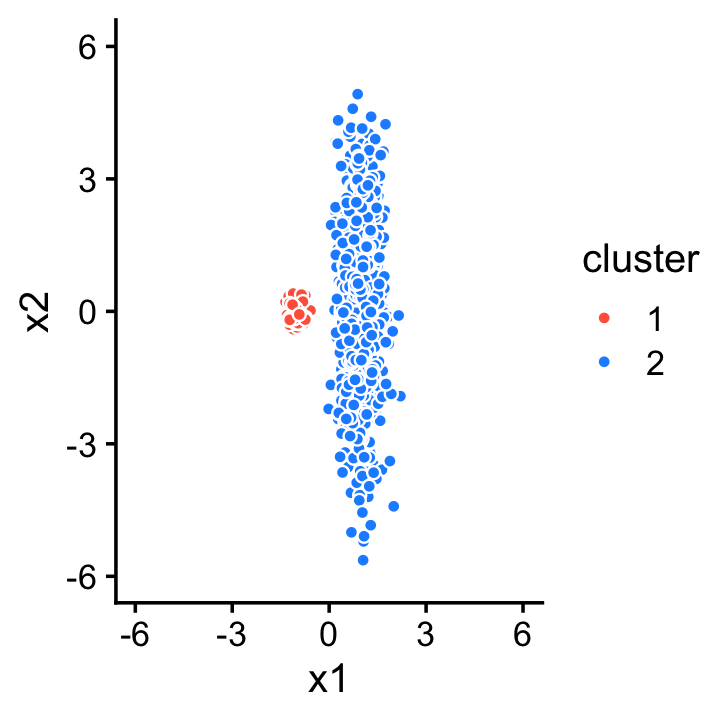
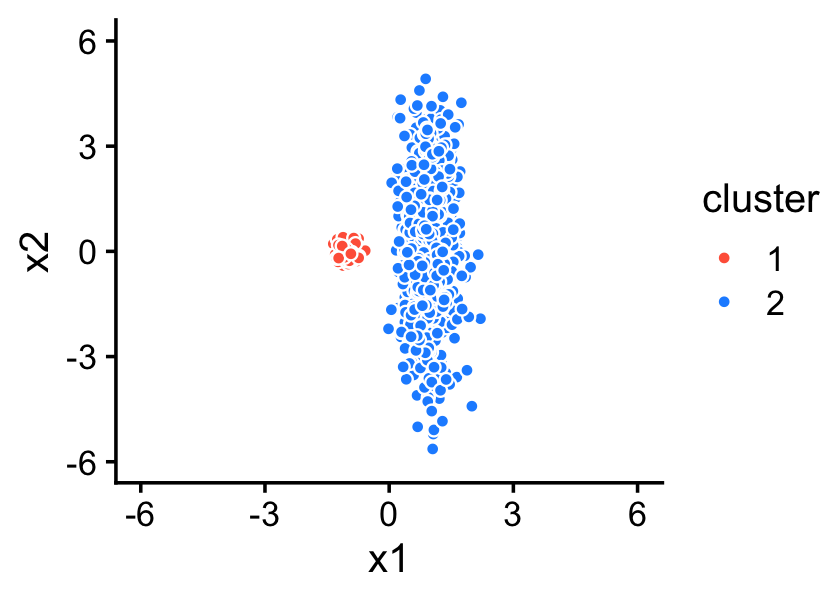
Added accompanying text to tsne_vs_factors analysis.

diff --git a/docs/tsne_vs_factors.html b/docs/tsne_vs_factors.html
@@ -420,22 +420,23 @@ This reproducible <a href="http://rmarkdown.rstudio.com">R Markdown</a> analysis
 <div class="panel panel-default">
 <div class="panel-heading">
 <p class="panel-title">
-<a data-toggle="collapse" data-parent="#workflowr-checks" href="#strongRepositoryversionstrongahrefhttpsgithubcompcarbopcarbotree82daf35a343c6f0e0634365f30fb0a6bb3de9ea0targetblank82daf35a"> <span class="glyphicon glyphicon-ok text-success" aria-hidden="true"></span> <strong>Repository version:</strong> <a href="https://github.com/pcarbo/pcarbo/tree/82daf35a343c6f0e0634365f30fb0a6bb3de9ea0" target="_blank">82daf35</a> </a>
+<a data-toggle="collapse" data-parent="#workflowr-checks" href="#strongRepositoryversionstrongahrefhttpsgithubcompcarbopcarbotree32402cffb680812b4b1fc55eb7b237e008e82050targetblank32402cfa"> <span class="glyphicon glyphicon-ok text-success" aria-hidden="true"></span> <strong>Repository version:</strong> <a href="https://github.com/pcarbo/pcarbo/tree/32402cffb680812b4b1fc55eb7b237e008e82050" target="_blank">32402cf</a> </a>
 </p>
 </div>
[2 lines of base64/hex data omitted]
 <div class="panel-body">
 <p>
 Great! You are using Git for version control. Tracking code development and connecting the code version to the results is critical for reproducibility.
 </p>
 <p>
-The results in this page were generated with repository version <a href="https://github.com/pcarbo/pcarbo/tree/82daf35a343c6f0e0634365f30fb0a6bb3de9ea0" target="_blank">82daf35</a>. See the <em>Past versions</em> tab to see a history of the changes made to the R Markdown and HTML files.
+The results in this page were generated with repository version <a href="https://github.com/pcarbo/pcarbo/tree/32402cffb680812b4b1fc55eb7b237e008e82050" target="_blank">32402cf</a>. See the <em>Past versions</em> tab to see a history of the changes made to the R Markdown and HTML files.
 </p>
 <p>
 Note that you need to be careful to ensure that all relevant files for the analysis have been committed to Git prior to generating the results (you can use <code>wflow_publish</code> or <code>wflow_git_commit</code>). workflowr only checks the R Markdown file, but you know if there are other scripts or data files that it depends on. Below is the status of the Git repository when the results were generated:
 </p>
 <pre><code>
 Ignored files:
+    Ignored:    analysis/figure/
     Ignored:    analysis/fit-scd-ex-k=10.rds
     Ignored:    sbatch/makefile_demo/sims/sim0001.csv
     Ignored:    sbatch/makefile_demo/sims/sim0002.csv
@@ -735,6 +736,40 @@ Message
 Rmd
 </td>
 <td>
+<a href="https://github.com/pcarbo/pcarbo/blob/32402cffb680812b4b1fc55eb7b237e008e82050/analysis/tsne_vs_factors.Rmd" target="_blank">32402cf</a>
+</td>
+<td>
+Peter Carbonetto
+</td>
+<td>
+2020-10-12
+</td>
+<td>
+workflowr::wflow_publish(“tsne_vs_factors.Rmd”)
+</td>
+</tr>
+<tr>
+<td>
+html
+</td>
+<td>
+<a href="https://rawcdn.githack.com/pcarbo/pcarbo/5426424a214560699cfb3091143ffcfc7c6a8689/docs/tsne_vs_factors.html" target="_blank">5426424</a>
+</td>
+<td>
+Peter Carbonetto
+</td>
+<td>
+2020-10-12
+</td>
+<td>
+Built page for tsne_vs_factors analysis.
+</td>
+</tr>
+<tr>
+<td>
+Rmd
+</td>
+<td>
 <a href="https://github.com/pcarbo/pcarbo/blob/82daf35a343c6f0e0634365f30fb0a6bb3de9ea0/analysis/tsne_vs_factors.Rmd" target="_blank">82daf35</a>
 </td>
 <td>
@@ -754,7 +789,6 @@ workflowr::wflow_publish(“tsne_vs_factors.Rmd”)
 </div>
 </div>
 </div>
-<p><em>Add text here.</em></p>
 <p>Load the packages used in the analysis below, and set the seed.</p>
 <pre class="r"><code>library(mvtnorm)
 library(Rtsne)
@@ -762,7 +796,8 @@ library(flashier)
 library(ggplot2)
 library(cowplot)
 set.seed(1)</code></pre>
-<p>Simulate two clusters of 2-d data points. The second cluster varies much more along the second dimension.</p>
+<p>Consider the following data set. The 2-d data vectors are simulated so that they cluster into two sets. The second cluster varies much more along the second data dimension.</p>
+<p>Question: Is there a (linear) matrix factorization method that will produce a 1-d representation that correctly subdivides the points into the two clusters?</p>
 <pre class="r"><code>X &lt;- rbind(rmvnorm(100,c(-1,0),diag(2)/30),
            rmvnorm(900,c(+1,0),diag(c(0.1,3))))
 cluster &lt;- factor(c(rep(1,100),rep(2,900)))
@@ -774,8 +809,45 @@ p1 &lt;- qplot(X[,1],X[,2],shape = I(21),color = I(&quot;white&quot;),fill = clu
   labs(x = &quot;x1&quot;,y = &quot;x2&quot;) +
   theme_cowplot(font_size = 12)
 print(p1)</code></pre>
-<p><img src="figure/tsne_vs_factors.Rmd/sim-data-1.png" width="360" style="display: block; margin: auto;" /></p>
-<p>Unsurprisingly, PCA doesn’t work—he first principal component picks up variation in the second cluster.</p>
+<p><img src="figure/tsne_vs_factors.Rmd/sim-data-1.png" width="420" style="display: block; margin: auto;" /></p>
+<p>
+<button type="button" class="btn btn-default btn-xs btn-workflowr btn-workflowr-fig" data-toggle="collapse" data-target="#fig-sim-data-1">
+Past versions of sim-data-1.png
+</button>
+</p>
+<div id="fig-sim-data-1" class="collapse">
+<div class="table-responsive">
+<table class="table table-condensed table-hover">
+<thead>
+<tr>
+<th>
+Version
+</th>
+<th>
+Author
+</th>
+<th>
+Date
+</th>
+</tr>
+</thead>
+<tbody>
+<tr>
+<td>
+<a href="https://github.com/pcarbo/pcarbo/blob/5426424a214560699cfb3091143ffcfc7c6a8689/docs/figure/tsne_vs_factors.Rmd/sim-data-1.png" target="_blank">5426424</a>
+</td>
+<td>
+Peter Carbonetto
+</td>
+<td>
+2020-10-12
+</td>
+</tr>
+</tbody>
+</table>
+</div>
+</div>
+<p>Unsurprisingly, PCA doesn’t work—the first PC picks up variation in the second cluster.</p>
 <pre class="r"><code>pca &lt;- drop(prcomp(X)$x[,1])
 pdat &lt;- data.frame(cluster,pca)
 p2 &lt;- ggplot(pdat,aes(x = cluster,y = pca)) +
@@ -783,6 +855,43 @@ p2 &lt;- ggplot(pdat,aes(x = cluster,y = pca)) +
   theme_cowplot(font_size = 12)
 print(p2)</code></pre>
 <p><img src="figure/tsne_vs_factors.Rmd/pca-1.png" width="360" style="display: block; margin: auto;" /></p>
+<p>
+<button type="button" class="btn btn-default btn-xs btn-workflowr btn-workflowr-fig" data-toggle="collapse" data-target="#fig-pca-1">
+Past versions of pca-1.png
+</button>
+</p>
+<div id="fig-pca-1" class="collapse">
+<div class="table-responsive">
+<table class="table table-condensed table-hover">
+<thead>
+<tr>
+<th>
+Version
+</th>
+<th>
+Author
+</th>
+<th>
+Date
+</th>
+</tr>
+</thead>
+<tbody>
+<tr>
+<td>
+<a href="https://github.com/pcarbo/pcarbo/blob/5426424a214560699cfb3091143ffcfc7c6a8689/docs/figure/tsne_vs_factors.Rmd/pca-1.png" target="_blank">5426424</a>
+</td>
+<td>
+Peter Carbonetto
+</td>
+<td>
+2020-10-12
+</td>
+</tr>
+</tbody>
+</table>
+</div>
+</div>
 <p>On the other hand, the 1-d embedding generated by <em>t</em>-SNE is able to clearly distinguish the two clusters.</p>
 <pre class="r"><code>tsne &lt;- drop(Rtsne(X,dims = 1,perplexity = 30,theta = 0.1,max_iter = 1000,
                    eta = 200,normalize = FALSE,pca = FALSE,verbose = FALSE)$Y)
@@ -792,8 +901,45 @@ p3 &lt;- ggplot(pdat,aes(x = cluster,y = tsne)) +
   theme_cowplot(font_size = 12)
 print(p3)</code></pre>
 <p><img src="figure/tsne_vs_factors.Rmd/tsne-1.png" width="360" style="display: block; margin: auto;" /></p>
+<p>
+<button type="button" class="btn btn-default btn-xs btn-workflowr btn-workflowr-fig" data-toggle="collapse" data-target="#fig-tsne-1">
+Past versions of tsne-1.png
+</button>
+</p>
+<div id="fig-tsne-1" class="collapse">
+<div class="table-responsive">
+<table class="table table-condensed table-hover">
+<thead>
+<tr>
+<th>
+Version
+</th>
+<th>
+Author
+</th>
+<th>
+Date
+</th>
+</tr>
+</thead>
+<tbody>
+<tr>
+<td>
+<a href="https://github.com/pcarbo/pcarbo/blob/5426424a214560699cfb3091143ffcfc7c6a8689/docs/figure/tsne_vs_factors.Rmd/tsne-1.png" target="_blank">5426424</a>
+</td>
+<td>
+Peter Carbonetto
+</td>
+<td>
+2020-10-12
+</td>
+</tr>
+</tbody>
+</table>
+</div>
+</div>
 <p>FLASH with one factor does no better than PCA in separating the two clusters.</p>
-<pre class="r"><code>fl &lt;- flash(X,greedy.Kmax = 1,nullcheck = FALSE)
+<pre class="r"><code>fl &lt;- flash(X,greedy.Kmax = 1,nullcheck = FALSE,verbose.lvl = 0)
 fl &lt;- drop(fl$loadings.pm[[1]])
 pdat &lt;- data.frame(cluster,flash = fl)
 p4 &lt;- ggplot(pdat,aes(x = cluster,y = flash)) +
@@ -801,9 +947,43 @@ p4 &lt;- ggplot(pdat,aes(x = cluster,y = flash)) +
   theme_cowplot(font_size = 12)
 print(p4)</code></pre>
 <p><img src="figure/tsne_vs_factors.Rmd/flash-1.png" width="360" style="display: block; margin: auto;" /></p>
-<pre><code># Adding factor 1 to flash object...
-# Wrapping up...
-# Done.</code></pre>
+<p>
+<button type="button" class="btn btn-default btn-xs btn-workflowr btn-workflowr-fig" data-toggle="collapse" data-target="#fig-flash-1">
+Past versions of flash-1.png
+</button>
+</p>
+<div id="fig-flash-1" class="collapse">
+<div class="table-responsive">
+<table class="table table-condensed table-hover">
+<thead>
+<tr>
+<th>
+Version
+</th>
+<th>
+Author
+</th>
+<th>
+Date
+</th>
+</tr>
+</thead>
+<tbody>
+<tr>
+<td>
+<a href="https://github.com/pcarbo/pcarbo/blob/5426424a214560699cfb3091143ffcfc7c6a8689/docs/figure/tsne_vs_factors.Rmd/flash-1.png" target="_blank">5426424</a>
+</td>
+<td>
+Peter Carbonetto
+</td>
+<td>
+2020-10-12
+</td>
+</tr>
+</tbody>
+</table>
+</div>
+</div>
 <br>
 <p>
 <button type="button" class="btn btn-default btn-workflowr btn-workflowr-sessioninfo" data-toggle="collapse" data-target="#workflowr-sessioninfo" style="display: block;">
